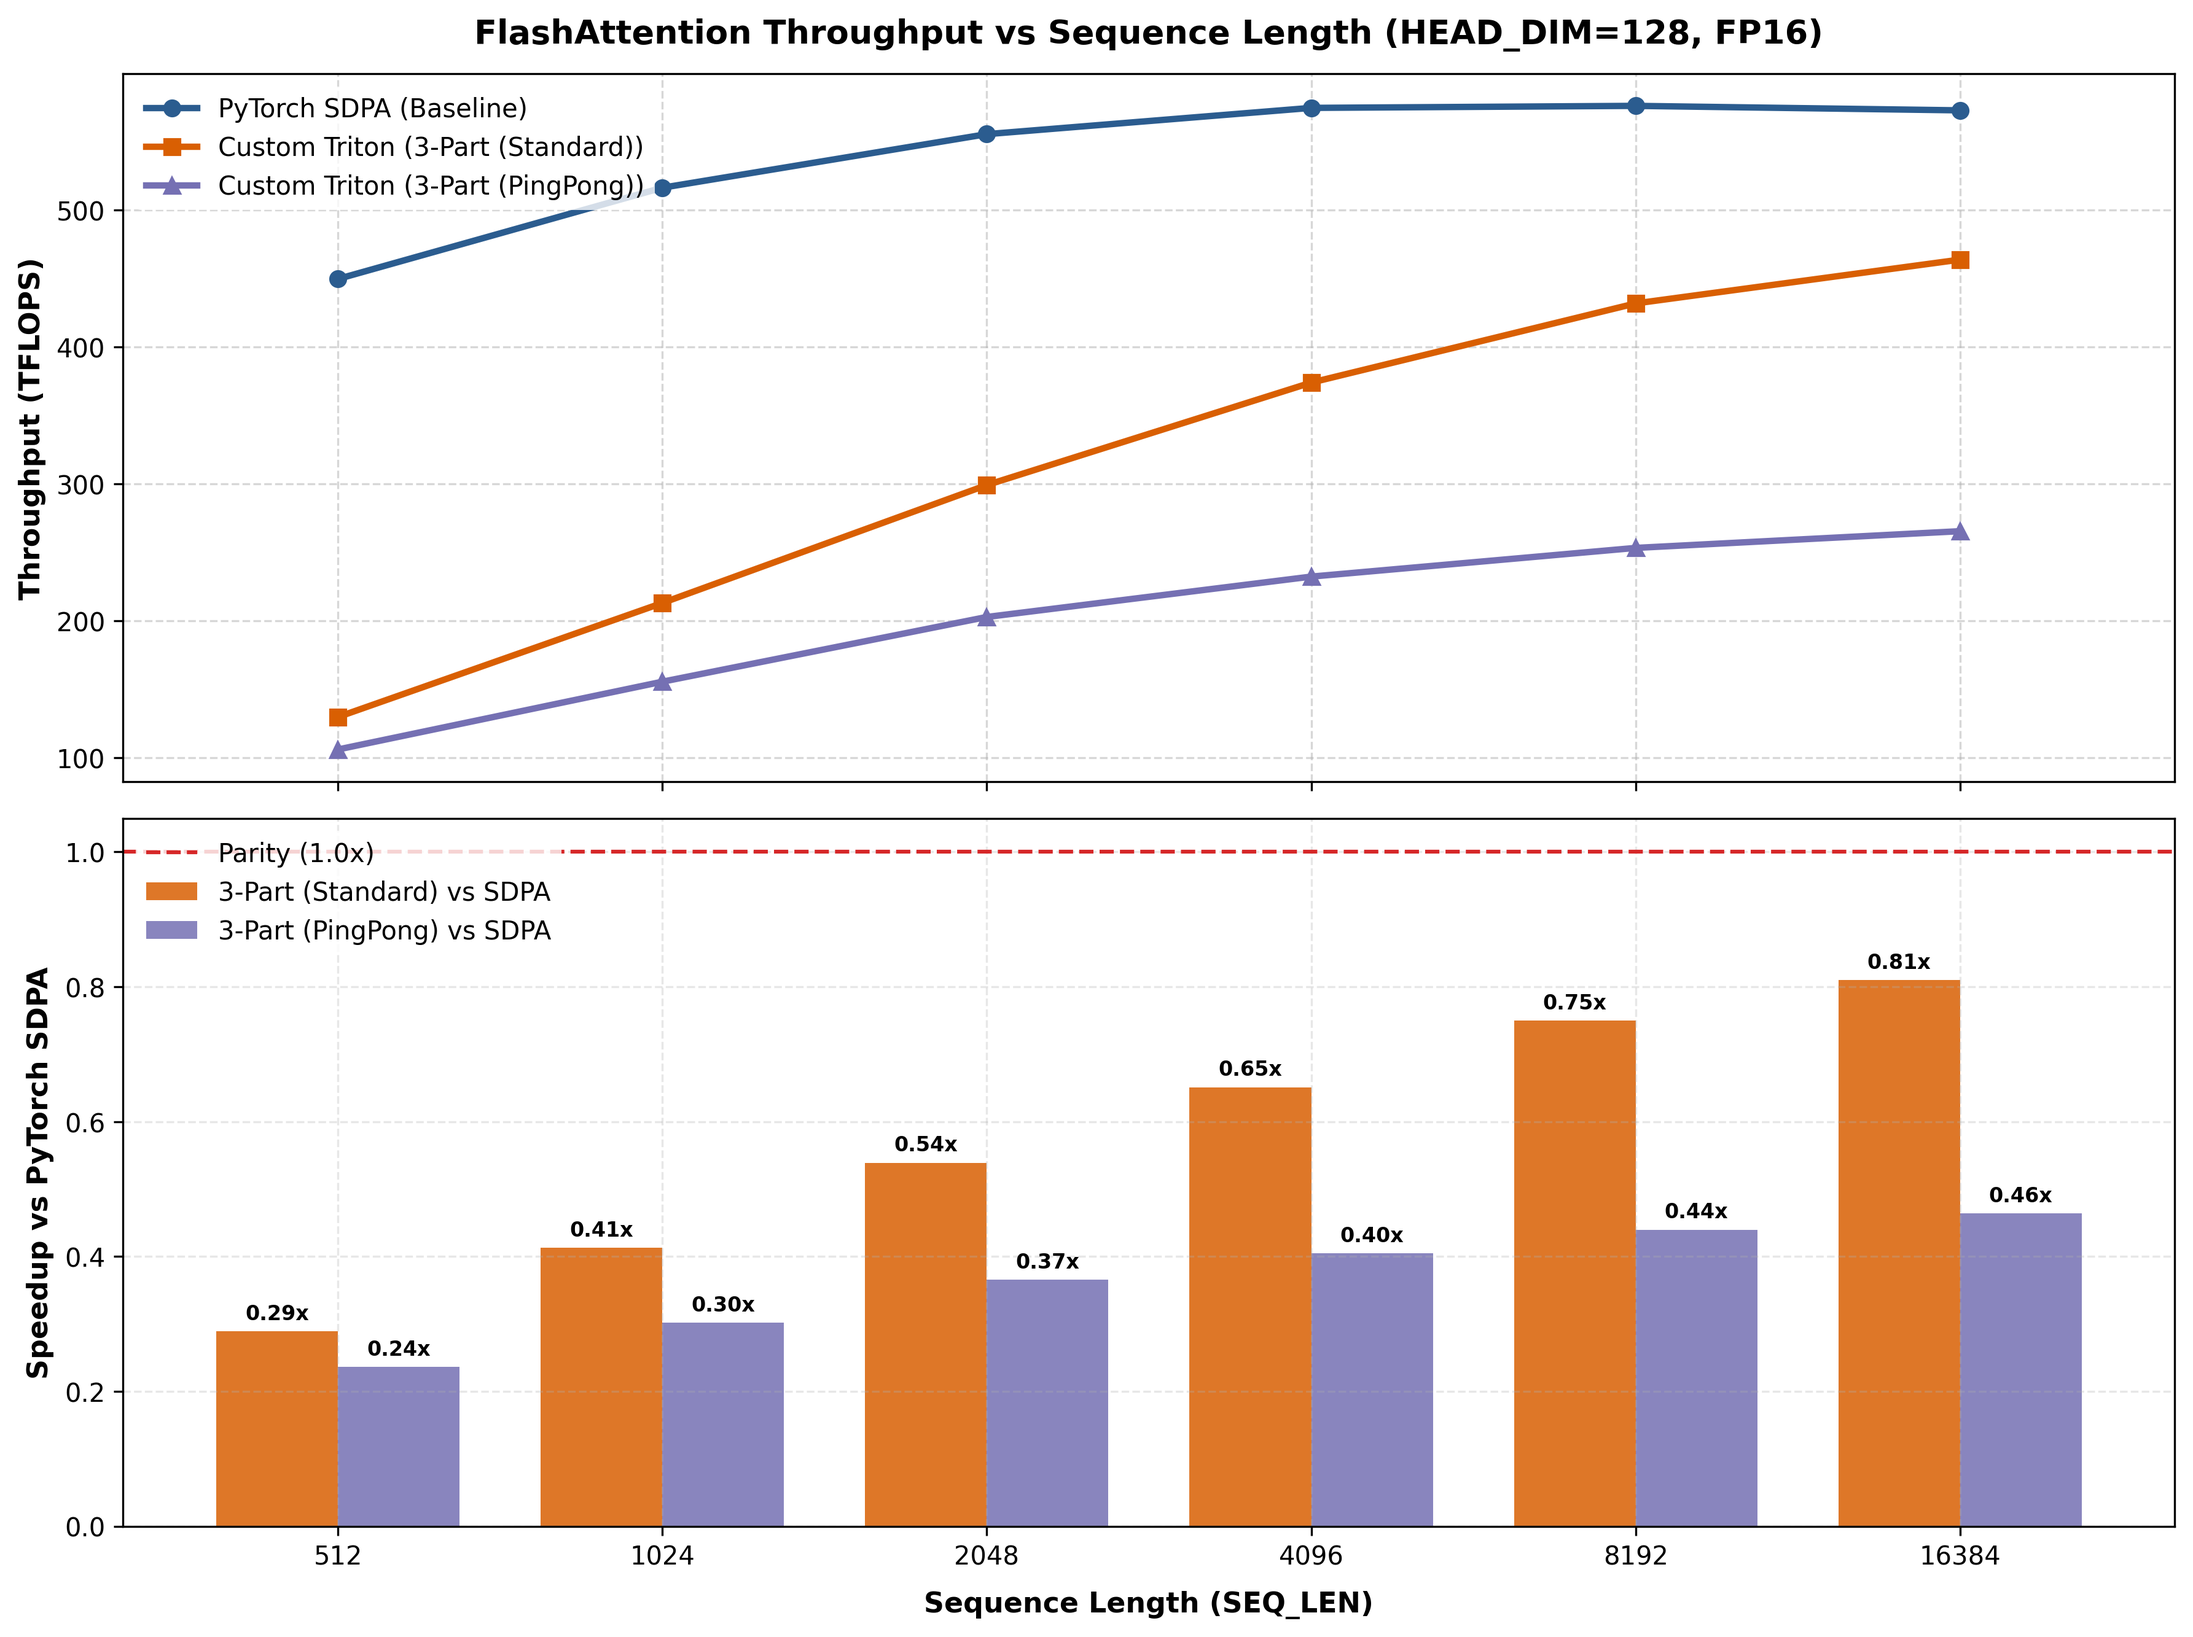
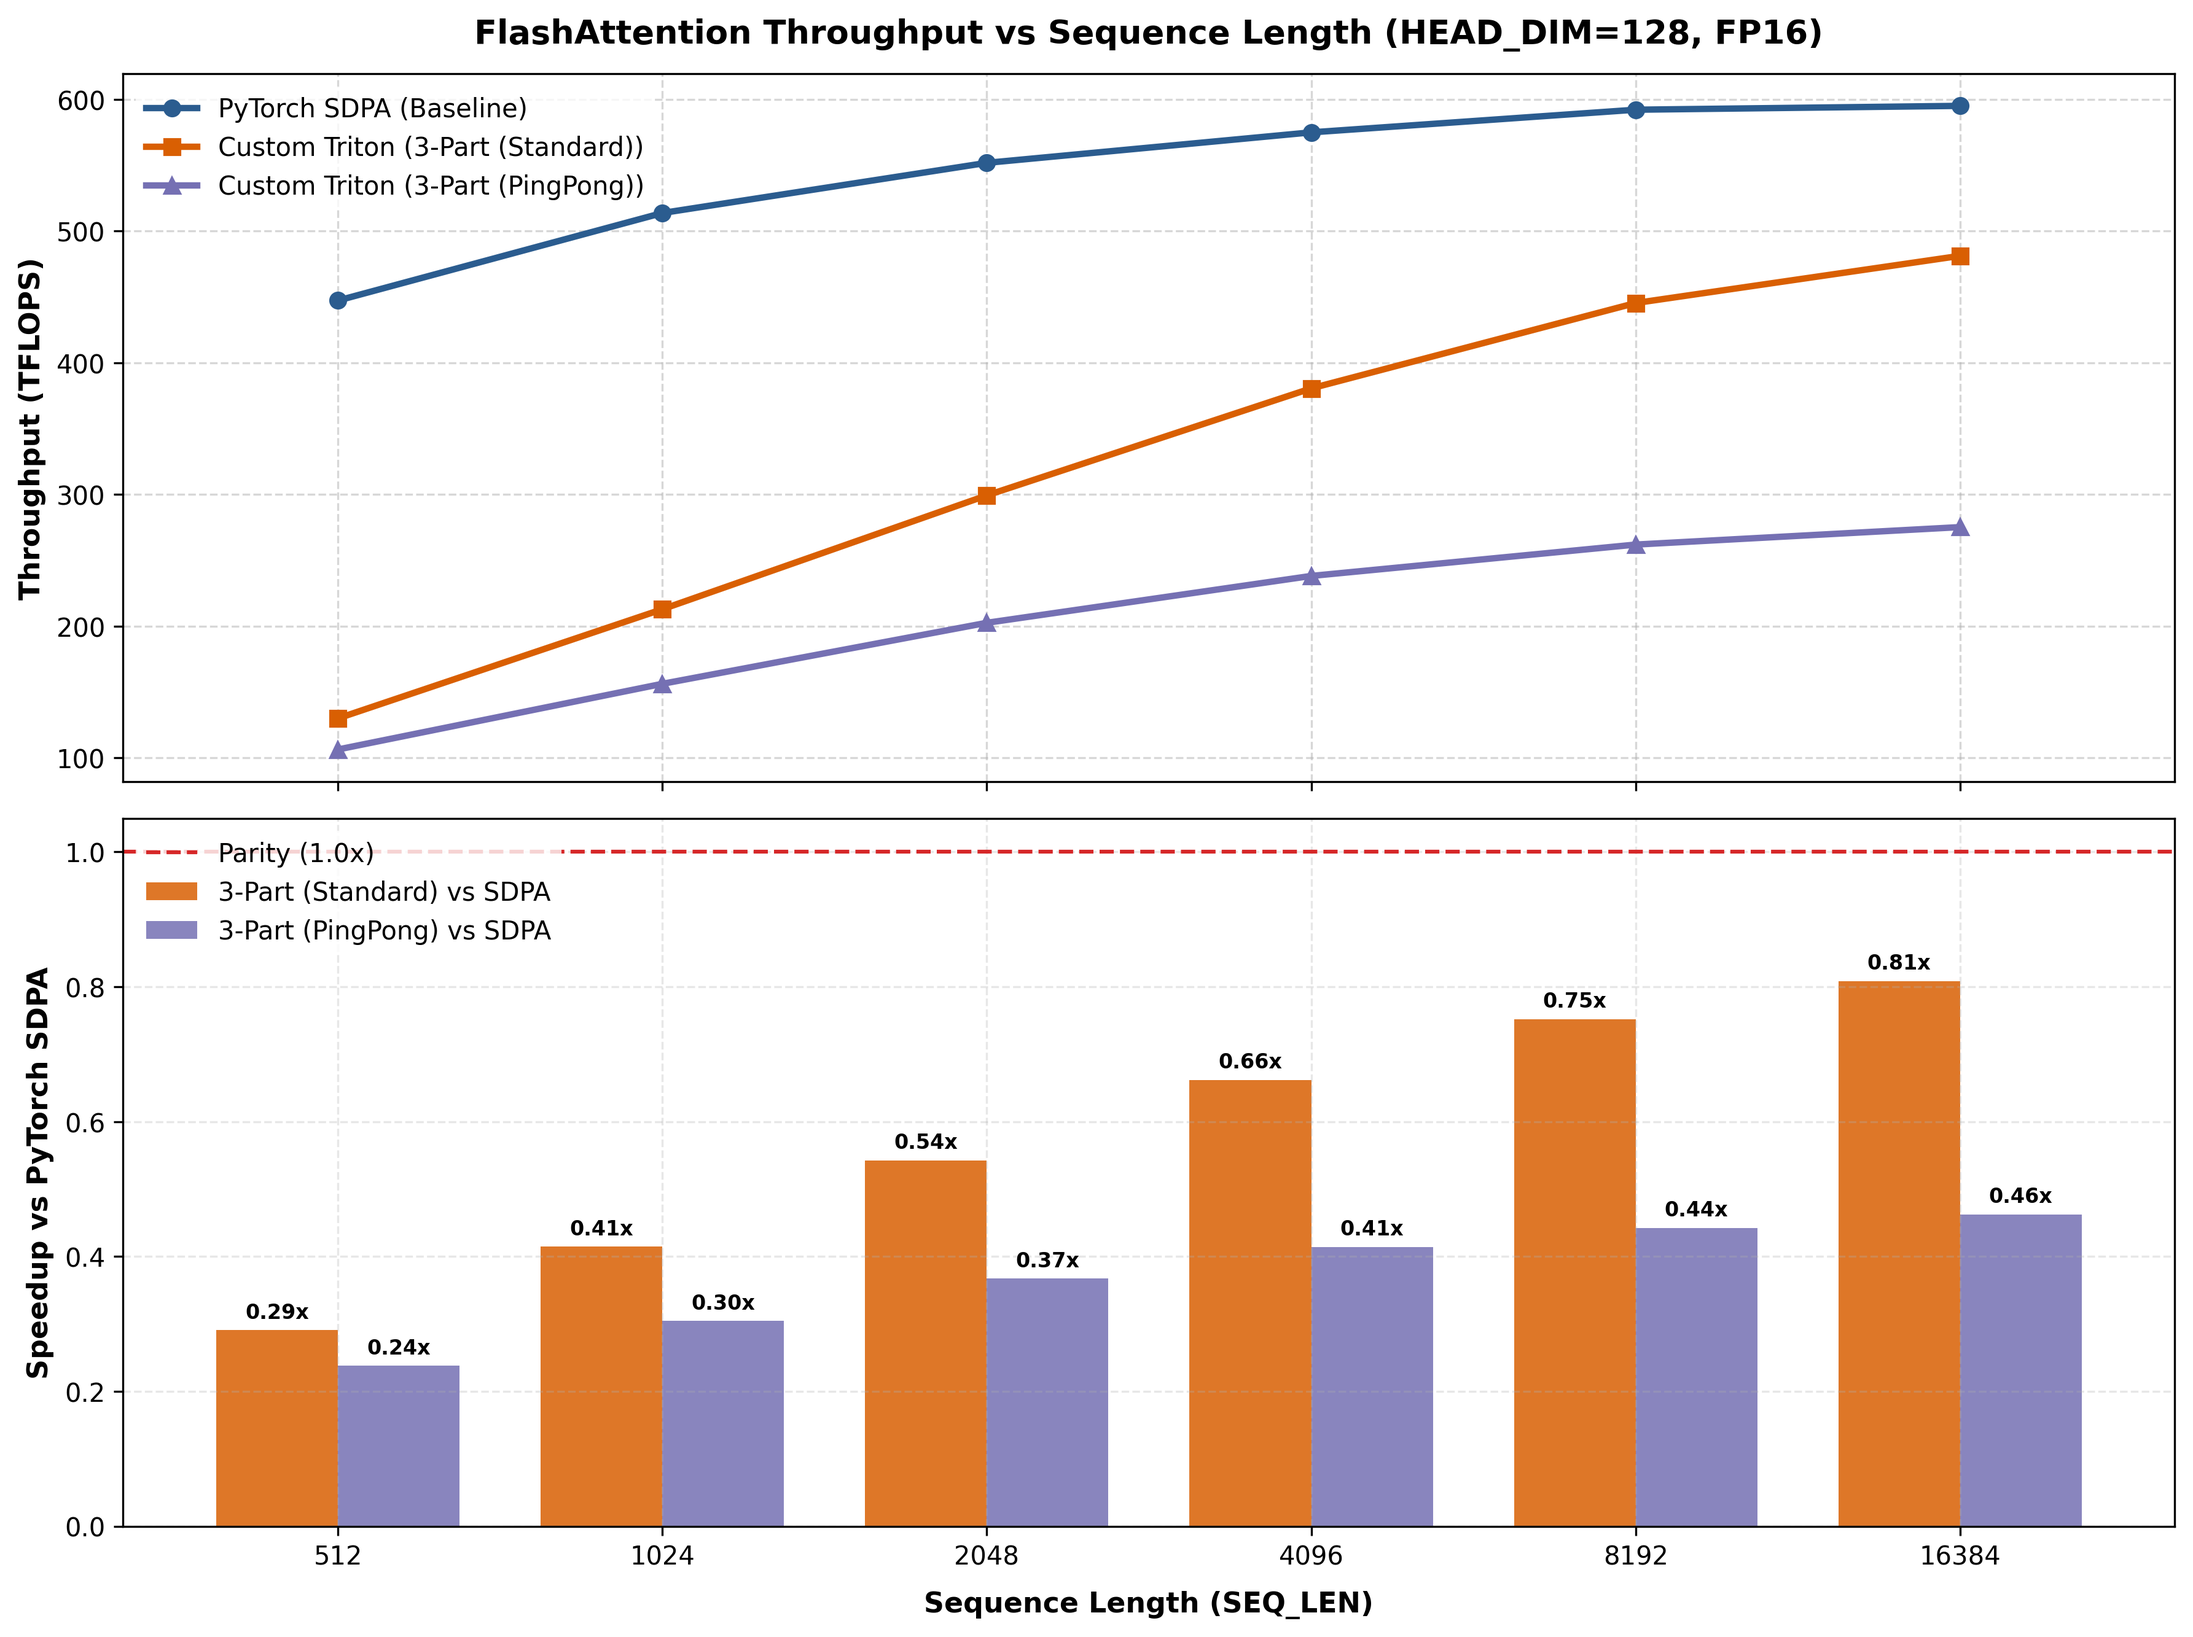
improve 3 part ping pong suboptimal

diff --git a/attention/gluon_3_partition_pingpong.py b/attention/gluon_3_partition_pingpong.py
@@ -20,6 +20,7 @@ from triton.experimental.gluon.language.nvidia.hopper import (
 
 from common import (
     WGMMA,
+    pick_wgmma_layout,
 )
 
 # ---------------------------------------------------------------------------
@@ -235,6 +236,7 @@ def fa3_consumer_partition(
     SEQ_LEN: gl.constexpr,
     NUM_HEADS: gl.constexpr,
     HEAD_DIM: gl.constexpr,
+    p_layout: gl.constexpr,
 ):
     BLOCK_M: gl.constexpr = p.q_desc.block_type.shape[0]
     BLOCK_N: gl.constexpr = p.k_desc.block_type.shape[1]
@@ -309,12 +311,6 @@ def fa3_consumer_partition(
             m_old = m_new
 
             P_tile_f16 = gl.cast(P_tile_f32, dtype=dtype)
-            p_layout: gl.constexpr = gl.DotOperandLayout(
-                operand_index=0,
-                parent=mma_o.layout,
-                k_width=32 // dtype.primitive_bitwidth,
-                meta=0,
-            )
             P_tile_permuted = gl.convert_layout(P_tile_f16, p_layout)
 
             mma_o = mma_o.wait_num_outstanding(0)
@@ -353,12 +349,6 @@ def fa3_consumer_partition(
         l_old = l_old * rescale_factor + p_sum
 
         P_tile_f16 = gl.cast(P_tile_f32, dtype=dtype)
-        p_layout: gl.constexpr = gl.DotOperandLayout(
-            operand_index=0,
-            parent=mma_o.layout,
-            k_width=32 // dtype.primitive_bitwidth,
-            meta=0,
-        )
         P_tile_permuted = gl.convert_layout(P_tile_f16, p_layout)
 
         mma_o = mma_o.issue_async_mma(
@@ -462,9 +452,16 @@ def fa3_warp_specialized_kernel(
         o_empty_bars, o_ready_bars,
         SUBTILE_FACTOR, num_warps
     )
+    
+    p_layout: gl.constexpr = gl.DotOperandLayout(
+        operand_index=0,
+        parent=pick_wgmma_layout(dtype, BLOCK_SIZE_M, BLOCK_SIZE_K, num_warps),
+        k_width=32 // dtype.primitive_bitwidth,
+        meta=0,
+    )
 
     gl.warp_specialize([
-        (fa3_consumer_partition, (p, SchedulerImpl, SEQ_LEN, NUM_HEADS, HEAD_DIM)),
+        (fa3_consumer_partition, (p, SchedulerImpl, SEQ_LEN, NUM_HEADS, HEAD_DIM, p_layout)),
         (fa3_producer_partition, (p, SchedulerImpl, SEQ_LEN, NUM_HEADS, HEAD_DIM)),
         (fa3_store_partition, (p, SchedulerImpl, SEQ_LEN, NUM_HEADS, HEAD_DIM)),
     ], [1, 1], [24, 24])
@@ -653,7 +650,7 @@ if __name__ == "__main__":
     parser.add_argument("--bn", type=int, default=128, help="BLOCK_SIZE_N")
     parser.add_argument("--bk", type=int, default=128, help="BLOCK_SIZE_N")
     parser.add_argument("--stages", type=int, default=2, help="Number of pipeline stages for KV")
-    parser.add_argument("--sf", type=int, default=4, help="SUBTILE_FACTOR")
+    parser.add_argument("--sf", type=int, default=1, help="SUBTILE_FACTOR")
     parser.add_argument("--warps", type=int, default=8, help="Number of compute warps")
     
     args = parser.parse_args()

diff --git a/attention/gluon_attention_forward.py b/attention/gluon_attention_forward.py
@@ -396,11 +396,11 @@ def fa3_warp_specialized_kernel(
     )
     
     p_layout: gl.constexpr = gl.DotOperandLayout(
-                operand_index=0,
-                parent=pick_wgmma_layout(dtype, BLOCK_SIZE_M, BLOCK_SIZE_K, num_warps),
-                k_width=32 // dtype.primitive_bitwidth,
-                meta=0,
-            )
+        operand_index=0,
+        parent=pick_wgmma_layout(dtype, BLOCK_SIZE_M, BLOCK_SIZE_K, num_warps),
+        k_width=32 // dtype.primitive_bitwidth,
+        meta=0,
+    )
 
     gl.warp_specialize([
         (fa3_consumer_partition, (p, SchedulerImpl, SEQ_LEN, NUM_HEADS, HEAD_DIM, p_layout)),
